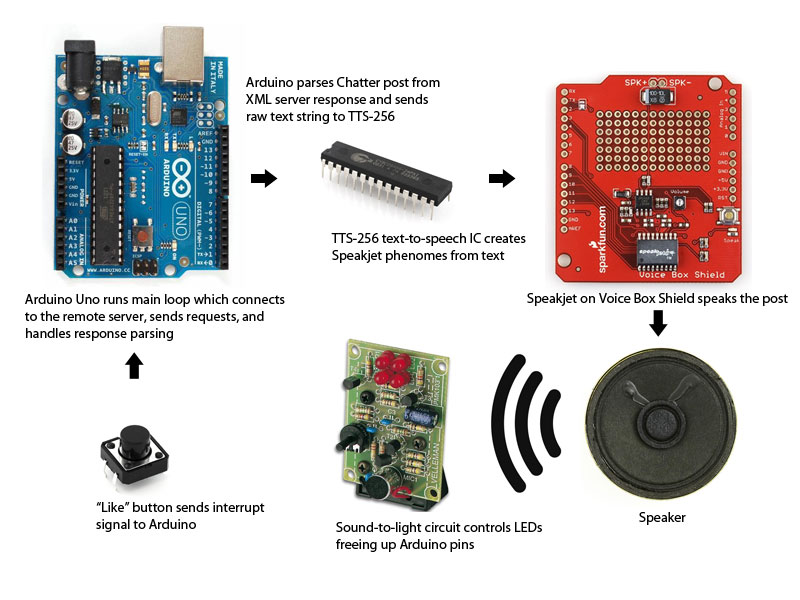
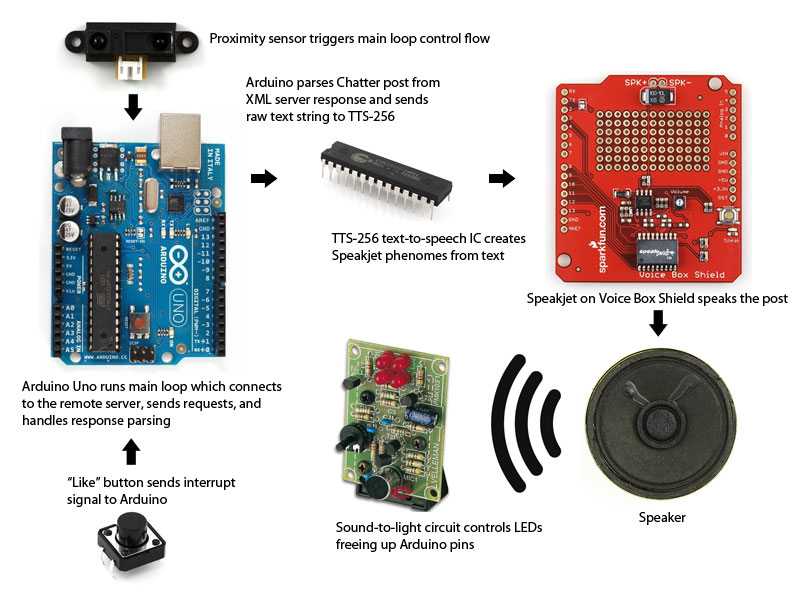
update hardware flow diagram

Changed region(s): [[0.0312, 0.03, 0.625, 0.99]]

diff --git a/app/views/grievebot/index.html b/app/views/grievebot/index.html
@@ -58,7 +58,10 @@
 						<a href="http://www.sparkfun.com/products/9811" target="_blank">TTS256</a>
 					</li>
 					<li>
-						<a href="http://www.vellemanusa.com/products/view/?country=us&lang=enu&id=350678">Velleman sound-to-light kit</a> (optional)
+						<a href="http://www.sparkfun.com/products/242" target="_blank">Sharp Proximity Sensor</a>
+					</li>
+					<li>
+						<a href="http://www.vellemanusa.com/products/view/?country=us&lang=enu&id=350678" target="_blank">Velleman sound-to-light kit</a> (optional)
 					</li>
 					<li>
 						<a href="https://github.com/codymarcel/grievebot" target="_blank">Grievebot source</a>
@@ -90,7 +93,7 @@
 					Speakjet codes 200-254 are special effects :D
 				</li>
 				<li>
-					Server response must fit in a single packet
+					The funky wiring job is because we broke the jumper on the Voicebox Shield.
 				</li>
 			</ul>
 		</div>
@@ -109,23 +112,17 @@
 				<br />
 				<a href="/assets/connectors_on_speakjet.jpg" class="highslide" onclick="return hs.expand(this, { src: '/assets/connectors_on_speakjet.jpg', wrapperClassName: 'colored-border', outlineType: null, align: 'center'})"><img id="thumb6" src="/assets/connectors_on_speakjet_250.jpg"/></a>
 				<br />
-				<a href="/assets/head_front.jpg" class="highslide" onclick="return hs.expand(this, { src: '/assets/head_front.jpg', wrapperClassName: 'colored-border', outlineType: null, align: 'center'})"><img id="thumb6" src="/assets/head_front_250.jpg"/></a>
-				<br />
-				<a href="/assets/head_side.jpg" class="highslide" onclick="return hs.expand(this, { src: '/assets/head_side.jpg', wrapperClassName: 'colored-border', outlineType: null, align: 'center'})"><img id="thumb6" src="/assets/head_side_250.jpg"/></a>
-				<br />
-				<a href="/assets/head_inside.jpg" class="highslide" onclick="return hs.expand(this, { src: '/assets/head_inside.jpg', wrapperClassName: 'colored-border', outlineType: null, align: 'center'})"><img id="thumb6" src="/assets/head_inside_250.jpg"/></a>
-				<br />
-				<a href="/assets/head_on_stand.jpg" class="highslide" onclick="return hs.expand(this, { src: '/assets/head_on_stand.jpg', wrapperClassName: 'colored-border', outlineType: null, align: 'center'})"><img id="thumb6" src="/assets/head_on_stand_250.jpg"/></a>
-				<br />
-				<a href="/assets/servo_for_head_rotation.jpg" class="highslide" onclick="return hs.expand(this, { src: '/assets/servo_for_head_rotation.jpg', wrapperClassName: 'colored-border', outlineType: null, align: 'center'})"><img id="thumb6" src="/assets/servo_for_head_rotation_250.jpg"/></a>
-				<br />
-				<a href="/assets/head_gear_2.jpg" class="highslide" onclick="return hs.expand(this, { src: '/assets/head_gear_2.jpg', wrapperClassName: 'colored-border', outlineType: null, align: 'center'})"><img id="thumb6" src="/assets/head_gear_2_250.jpg"/></a>
-				<br />
-				<a href="/assets/head_gear.jpg" class="highslide" onclick="return hs.expand(this, { src: '/assets/head_gear.jpg', wrapperClassName: 'colored-border', outlineType: null, align: 'center'})"><img id="thumb6" src="/assets/head_gear_250.jpg"/></a>
-				<br />
-				<a href="/assets/final_arduino_stack.jpg" class="highslide" onclick="return hs.expand(this, { src: '/assets/final_arduino_stack.jpg', wrapperClassName: 'colored-border', outlineType: null, align: 'center'})"><img id="thumb6" src="/assets/final_arduino_stack_250.jpg"/></a>
-				<br />
 			</p>
+		</div>
+		<div>
+				<a href="/assets/head_front.jpg" class="highslide" onclick="return hs.expand(this, { src: '/assets/head_front.jpg', wrapperClassName: 'colored-border', outlineType: null, align: 'center'})"><img id="thumb6" src="/assets/head_front_250.jpg"/></a>
+				<a href="/assets/head_side.jpg" class="highslide" onclick="return hs.expand(this, { src: '/assets/head_side.jpg', wrapperClassName: 'colored-border', outlineType: null, align: 'center'})"><img id="thumb6" src="/assets/head_side_250.jpg"/></a>
+				<a href="/assets/head_inside.jpg" class="highslide" onclick="return hs.expand(this, { src: '/assets/head_inside.jpg', wrapperClassName: 'colored-border', outlineType: null, align: 'center'})"><img id="thumb6" src="/assets/head_inside_250.jpg"/></a>
+				<a href="/assets/head_on_stand.jpg" class="highslide" onclick="return hs.expand(this, { src: '/assets/head_on_stand.jpg', wrapperClassName: 'colored-border', outlineType: null, align: 'center'})"><img id="thumb6" src="/assets/head_on_stand_250.jpg"/></a>
+				<a href="/assets/servo_for_head_rotation.jpg" class="highslide" onclick="return hs.expand(this, { src: '/assets/servo_for_head_rotation.jpg', wrapperClassName: 'colored-border', outlineType: null, align: 'center'})"><img id="thumb6" src="/assets/servo_for_head_rotation_250.jpg"/></a>
+				<a href="/assets/head_gear_2.jpg" class="highslide" onclick="return hs.expand(this, { src: '/assets/head_gear_2.jpg', wrapperClassName: 'colored-border', outlineType: null, align: 'center'})"><img id="thumb6" src="/assets/head_gear_2_250.jpg"/></a>
+				<a href="/assets/head_gear.jpg" class="highslide" onclick="return hs.expand(this, { src: '/assets/head_gear.jpg', wrapperClassName: 'colored-border', outlineType: null, align: 'center'})"><img id="thumb6" src="/assets/head_gear_250.jpg"/></a>
+				<a href="/assets/final_arduino_stack.jpg" class="highslide" onclick="return hs.expand(this, { src: '/assets/final_arduino_stack.jpg', wrapperClassName: 'colored-border', outlineType: null, align: 'center'})"><img id="thumb6" src="/assets/final_arduino_stack_250.jpg"/></a>
 		</div>
 	</body>
 </html>
